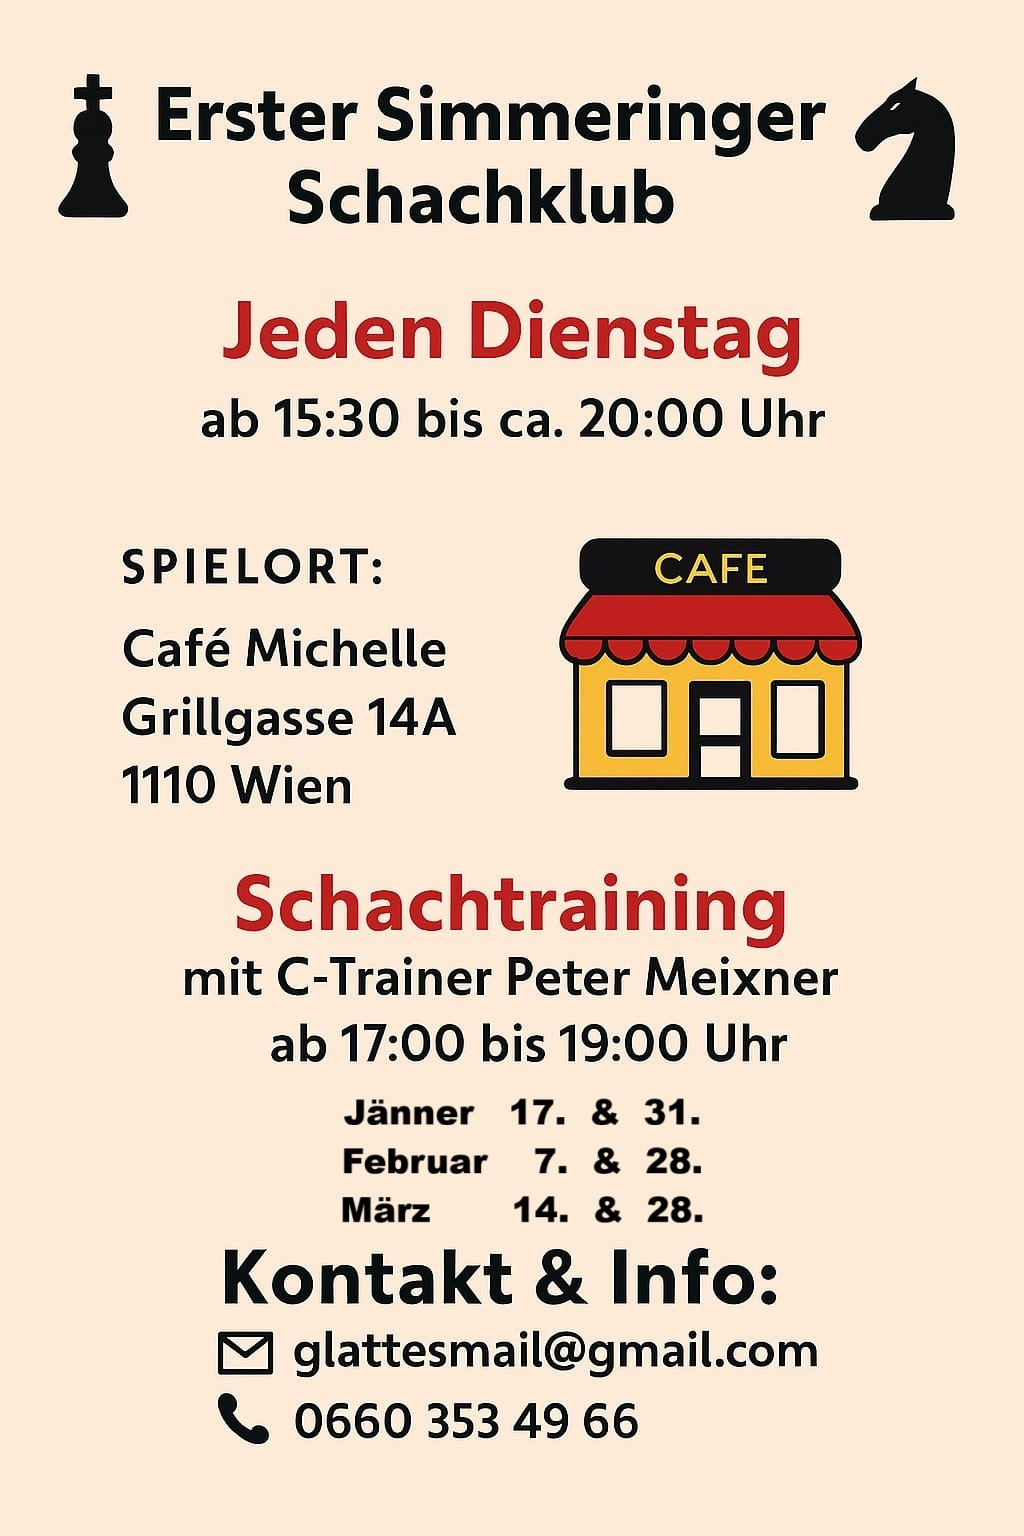
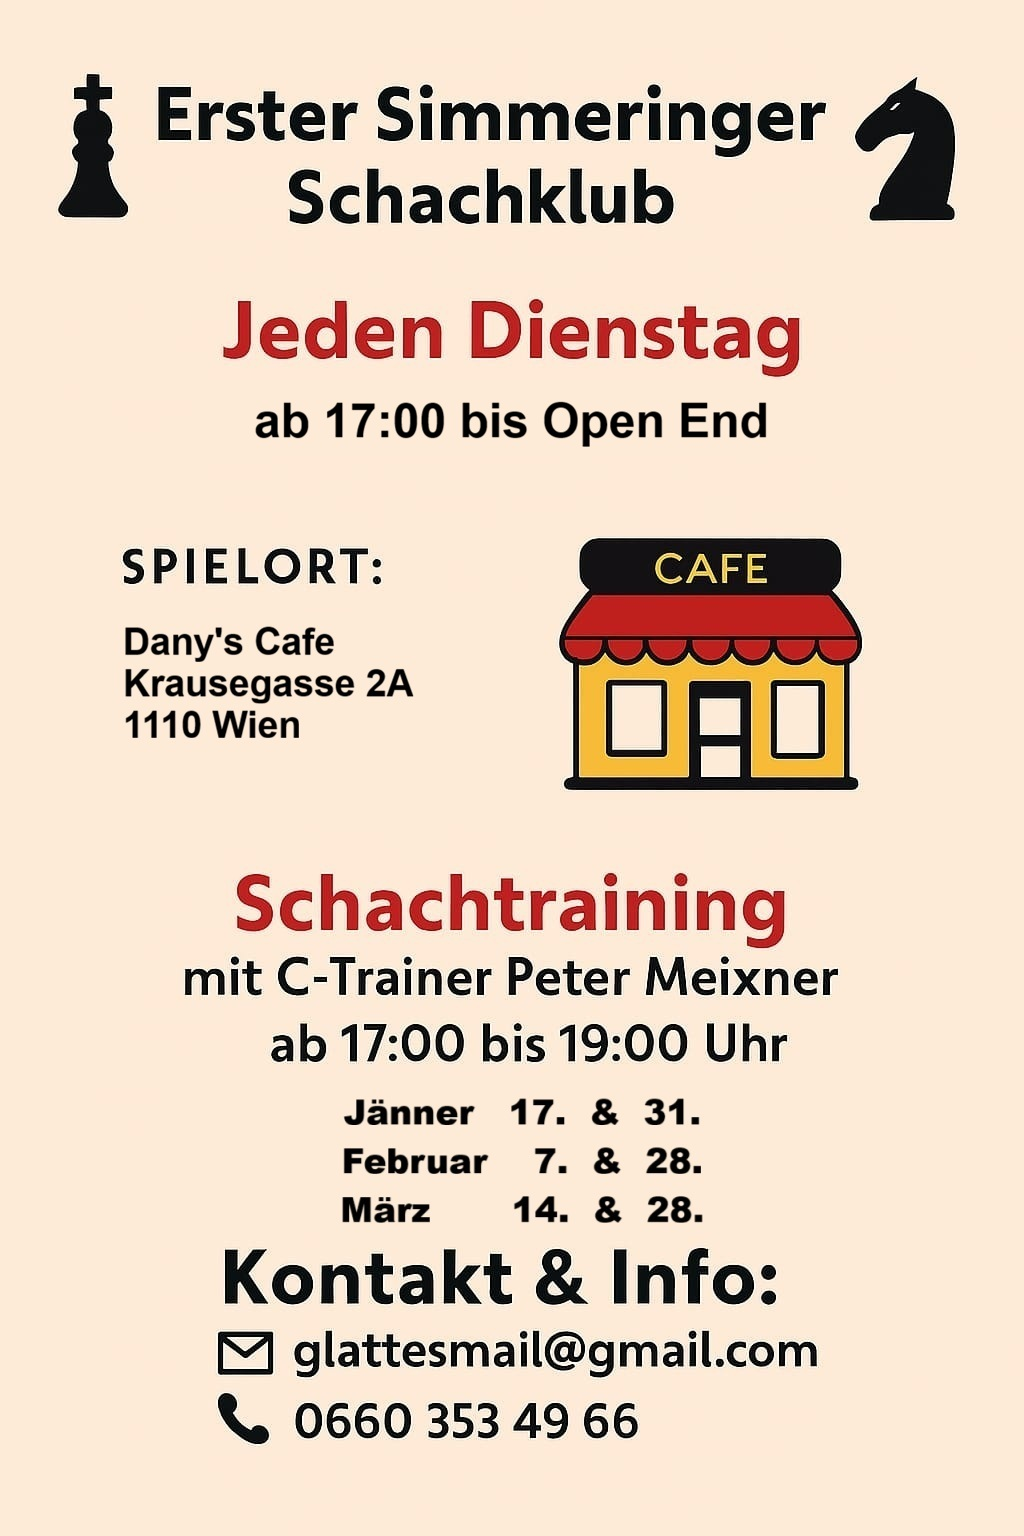
update website content

Changed region(s): [[0.125, 0.4062, 0.4375, 0.5312], [0.1875, 0.25, 0.8125, 0.3125]]

diff --git a/_posts/20251004_bundesliga_frauen_aufruf.md b/_posts/20251004_bundesliga_frauen_aufruf.md
@@ -1,10 +1,11 @@
 ---
-title: "Flyer vom 4. Oktober 2025"
-coverImage: "/assets/blog/flyer/20251004_bundesliga_frauen_aufruf_flyer.jpg"
-date: "2025-10-04T13:35:07.322Z"
+title: "Flyer vom 19. Dezember 2025"
+coverImage: "/assets/blog/flyer/20251219_Bundeliga_Damen.jpeg"
+date: "2025-12-19T13:35:07.322Z"
 author:
   name: Erwin Crvcek
   picture: "/assets/blog/authors/erwin.jpg"
 ogImage:
   url: "/assets/blog/flyer/20251004_bundesliga_frauen_aufruf_flyer.jpg"
 ---
+Dieser Flyer wurde aktualisiert, da sich unser Vereinslokal geändert hat. 

diff --git a/_posts/20251215_gratis_training.md b/_posts/20251215_gratis_training.md
@@ -8,3 +8,4 @@ author:
 ogImage:
   url: "/assets/blog/flyer/20251002_training_flyer.jpeg"
 ---
+Dieser Flyer wurde aktualisiert, da sich unser Vereinslokal geändert hat
